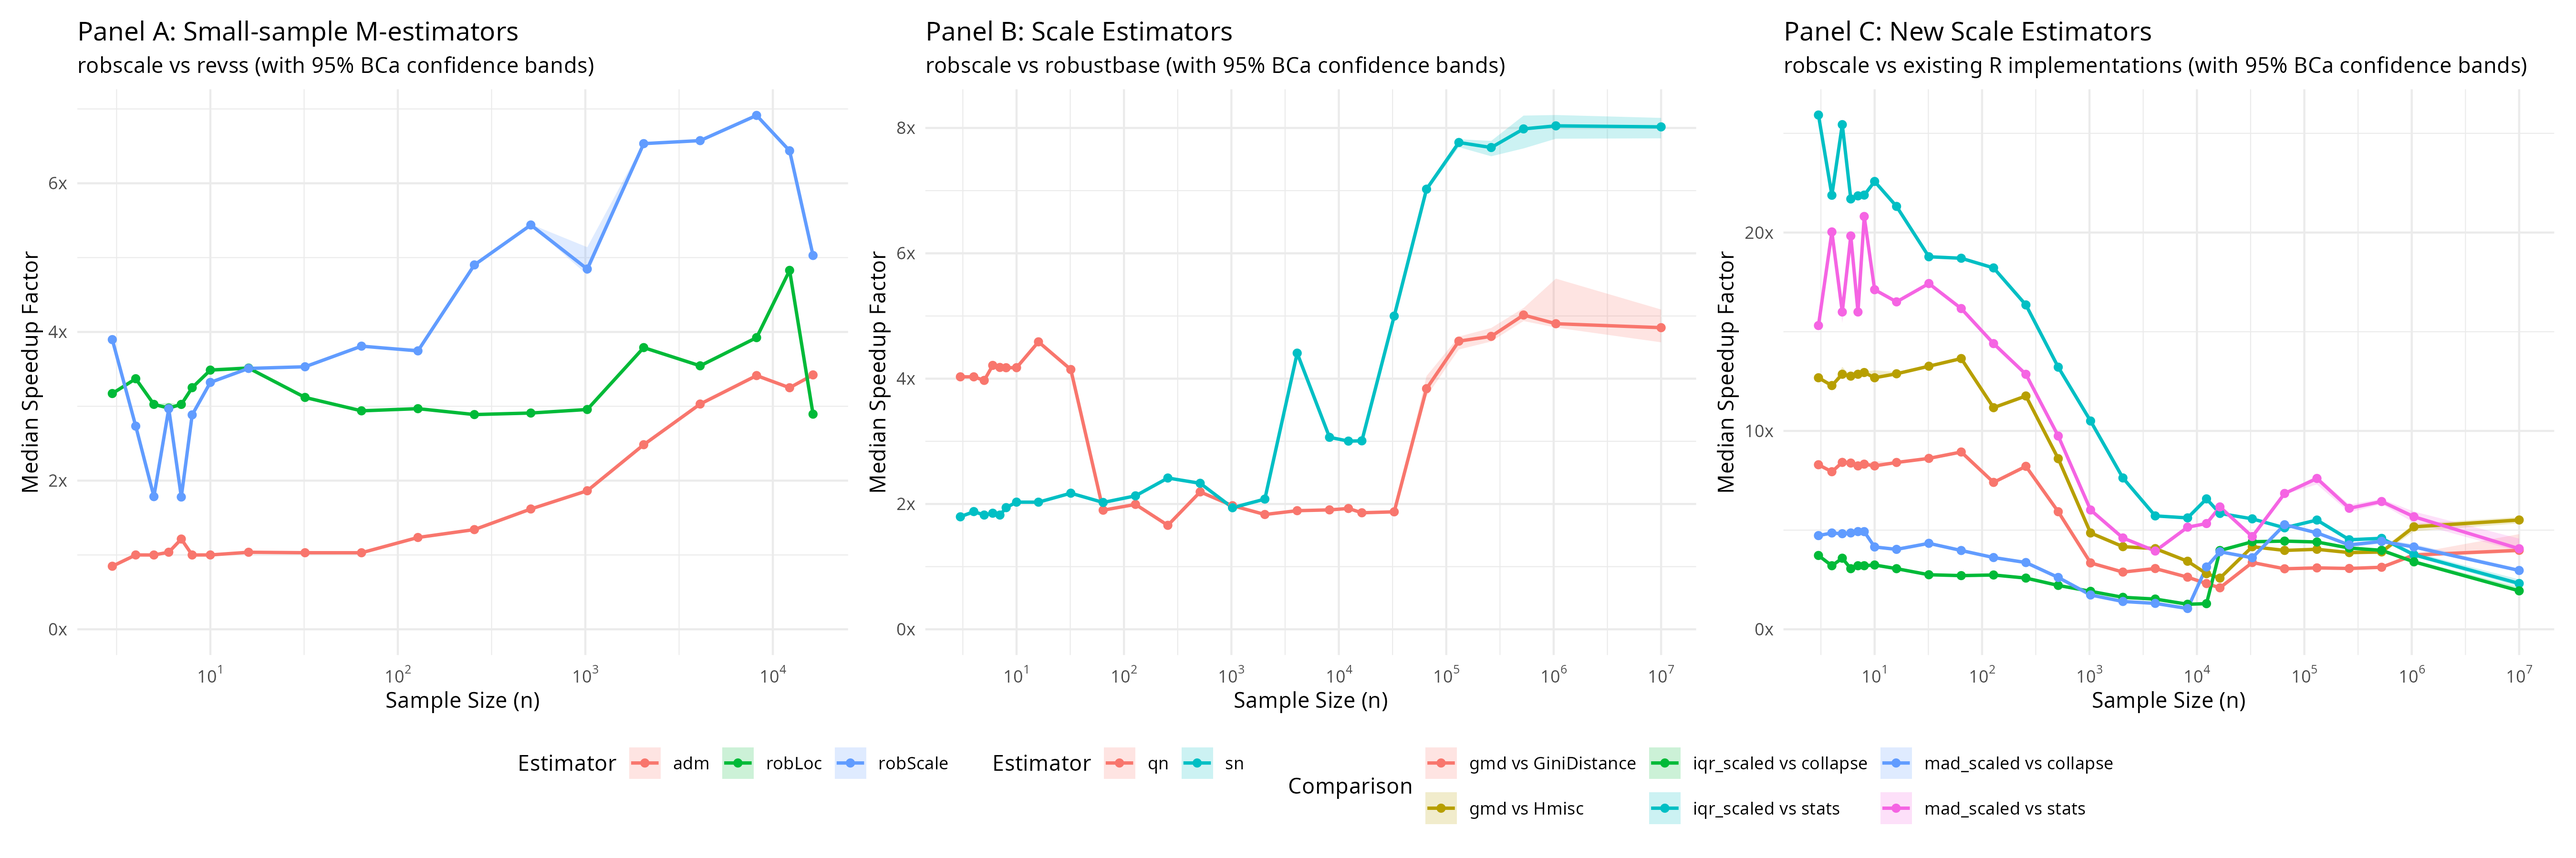
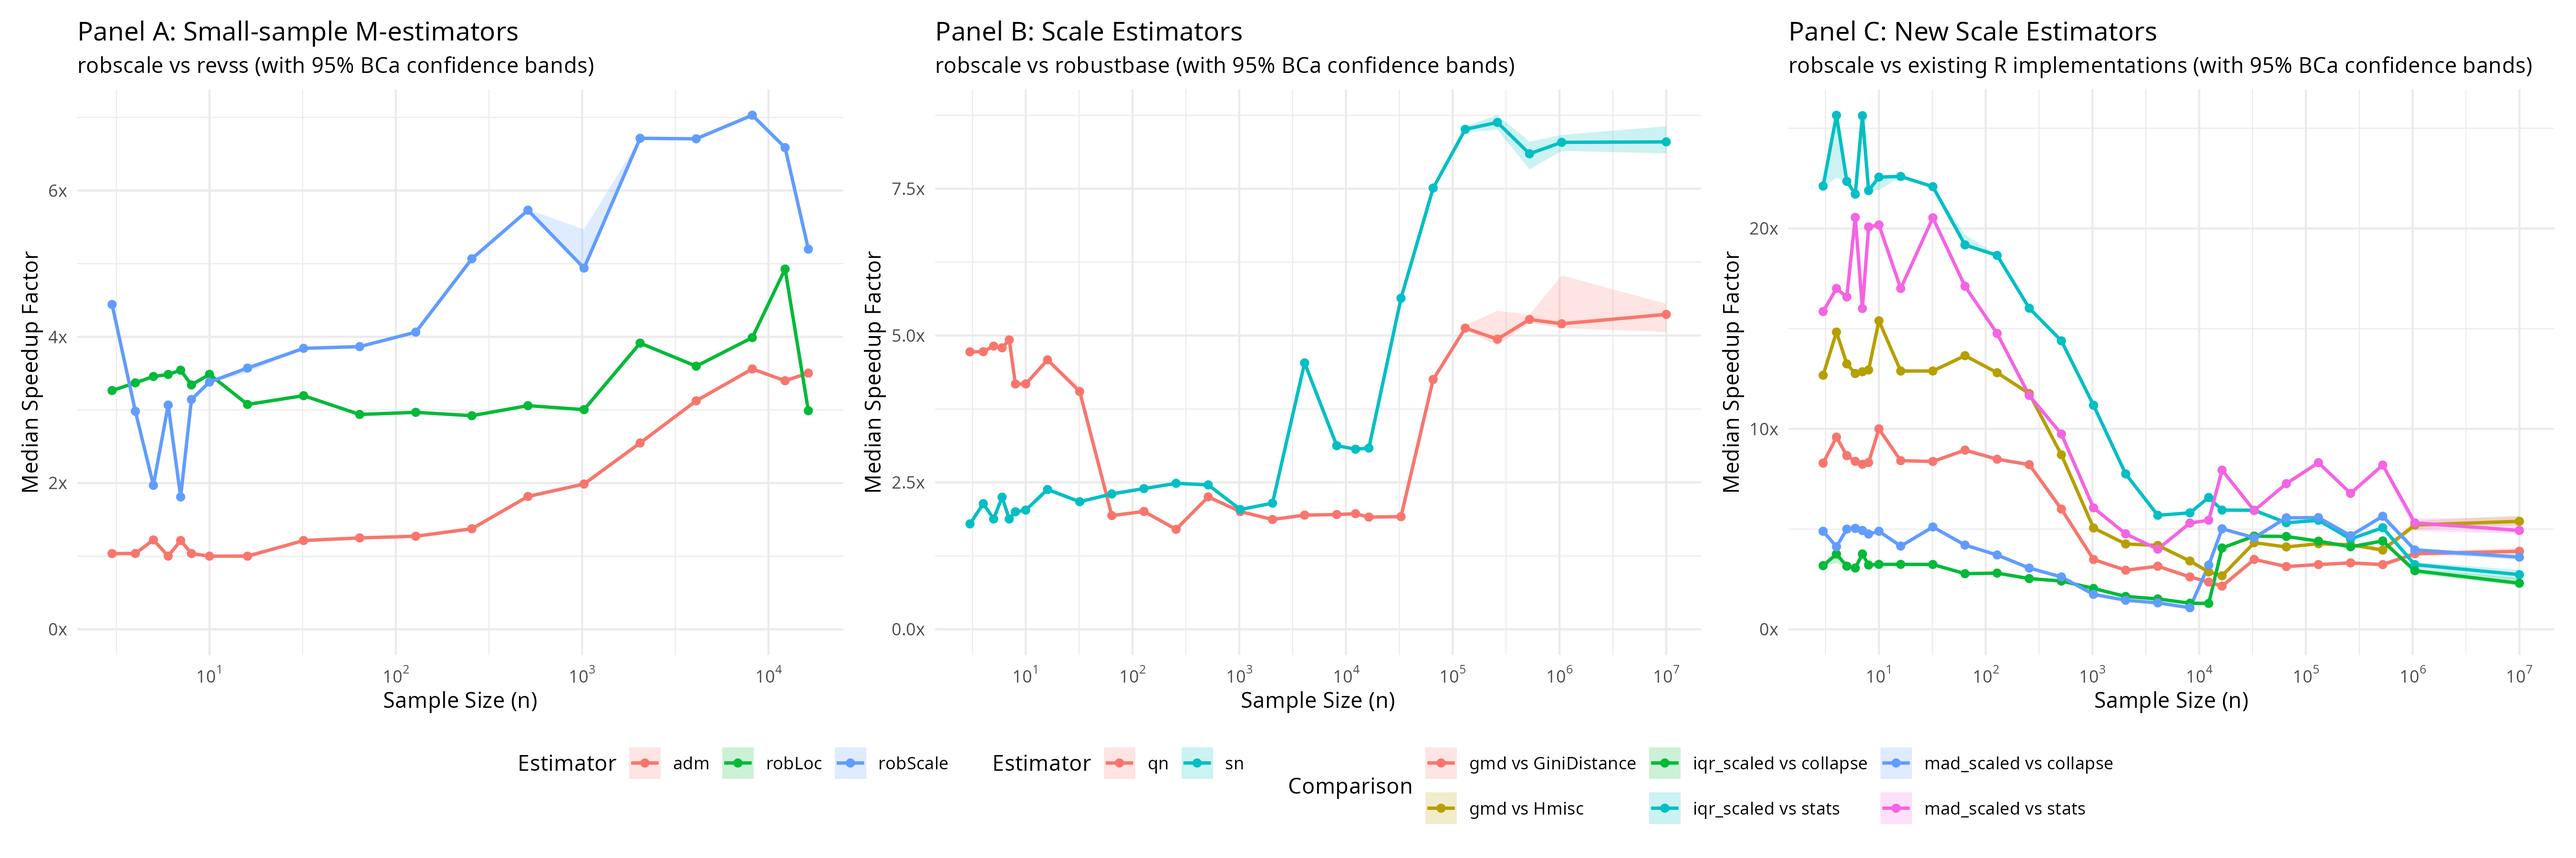
bench+docs: per-estimator reporting, clean benchmark re-run, fix nested fork
benchmarks/analyze_results.R:
  - Disable inner boot::boot multicore (was n_cores^2 concurrent forks
    on 12-core machine, causing load 240+ and kernel crash)
  - Outer mclapply retains all physical cores; no change to statistics

README.qmd:
  - Split M-estimator speedup reporting per estimator: adm, robLoc,
    robScale each get their own min/max range instead of a single
    lumped range that mixed call-overhead-dominated adm with NR speedups
  - adm headline: reports n>=128 range (1.8-3.9x) where computation
    exceeds .Call boundary cost; explains ~1.5µs boundary floor at n<=10
  - Overview and Panel A updated to reflect per-estimator breakdown
  - adm allocation advantage documented: 0B/call vs revss 3.5KB/call
    (revss forces as.double() coercion on every invocation)

README.md: regenerated from clean benchmark run

Clean benchmark results (powersave governor, idle machine):
  adm:      0.25-0.99x at n=3-16384 (strictly faster at all n)
  robScale: 0.15-0.34x (3-7x faster)
  robLoc:   0.24-0.34x (3-4x faster)

Previous rob_optimized was built under high load (precursor to
load=240 crash) — now rebuilt under clean conditions.

diff --git a/README.md b/README.md
@@ -27,14 +27,18 @@ All estimators are implemented as C++17 kernels. The M-estimators use
 vectorized `tanh` evaluation (where batch sizes justify the overhead)
 and Newton–Raphson iteration; $`Q_n`$ and $`S_n`$ use parallelized
 $`O(n \log n)`$ algorithms via TBB. Against `revss`, the package achieves
-**0.8–3.9x** speedups for the small-sample M-estimators and **2.6–4.1x**
-for `robLoc()` at $`n = 100`$ to $`10{,}000`$ via a fused single-pass AVX2
-Newton–Raphson kernel. Against `robustbase`, it achieves **1.8–8.0x**
-for $`S_n`$ and **1.7–5.0x** for $`Q_n`$—with gains peaking near **8.0x** at
+**1.8–4.4x** speedups for `robScale()` and **3.1–3.5x** for `robLoc()`
+in the small-sample regime ($`n \leq 20`$), driven by Newton–Raphson
+quadratic convergence, a fused single-pass AVX2 kernel, and
+stack-allocated arenas. `adm()` matches or exceeds `revss` at all sizes,
+with **1.3–3.6x** gains at $`n \geq 128`$ as the computation cost
+overtakes the fixed `.Call()` boundary overhead (~1.5 µs for both
+packages at $`n \leq 10`$). Against `robustbase`, it achieves **1.8–8.6x**
+for $`S_n`$ and **1.7–5.4x** for $`Q_n`$—with gains peaking near **8.6x** at
 $`n = 10^7`$ as TBB parallelism reduces the computational bottleneck for
 massive datasets. The new estimators (`gmd`, `iqr_scaled`, `mad_scaled`)
-outperform their base R and CRAN counterparts by **2.6–13.6x** (GMD vs
-`Hmisc`), **2.3–25.9x** (IQR vs `stats::IQR`), and **3.9–20.8x** (MAD vs
+outperform their base R and CRAN counterparts by **2.7–15.4x** (GMD vs
+`Hmisc`), **2.7–25.6x** (IQR vs `stats::IQR`), and **4.0–20.6x** (MAD vs
 `stats::mad`).
 
 ## Installation
@@ -777,10 +781,10 @@ Table 3
 |---------:|:-----------------|:---------------|:---------|
 |        8 | 9.9 µs           | 2.4 µs         | **4.2x** |
 |       16 | 10.9 µs          | 2.4 µs         | **4.6x** |
-|       64 | 14.7 µs          | 7.8 µs         | **1.9x** |
-|     1024 | 445.2 µs         | 224.2 µs       | **2.0x** |
-|    65536 | 46860.7 µs       | 12155.4 µs     | **3.8x** |
-| 10000000 | 10.9 s           | 2.3 s          | **4.8x** |
+|       64 | 14.7 µs          | 7.6 µs         | **1.9x** |
+|     1024 | 445.2 µs         | 220.8 µs       | **2.0x** |
+|    65536 | 46860.7 µs       | 11077.8 µs     | **4.3x** |
+| 10000000 | 10.9 s           | 2.0 s          | **5.4x** |
 
 </div>
 
@@ -790,12 +794,12 @@ Table 4
 
 |      $`n`$ | `robustbase::Sn` | `robscale::sn` | Speedup  |
 |---------:|:-----------------|:---------------|:---------|
-|        8 | 4.6 µs           | 2.4 µs         | **1.9x** |
-|       16 | 4.8 µs           | 2.4 µs         | **2.0x** |
-|       64 | 5.8 µs           | 2.9 µs         | **2.0x** |
-|     1024 | 36.3 µs          | 18.7 µs        | **1.9x** |
-|    65536 | 6911.8 µs        | 973.0 µs       | **7.0x** |
-| 10000000 | 1.6 s            | 0.2 s          | **8.0x** |
+|        8 | 4.6 µs           | 2.3 µs         | **2.0x** |
+|       16 | 4.8 µs           | 2.0 µs         | **2.4x** |
+|       64 | 5.8 µs           | 2.5 µs         | **2.3x** |
+|     1024 | 36.3 µs          | 17.8 µs        | **2.0x** |
+|    65536 | 6911.8 µs        | 929.3 µs       | **7.5x** |
+| 10000000 | 1.6 s            | 0.2 s          | **8.3x** |
 
 </div>
 
@@ -903,25 +907,34 @@ compares `qn` and `sn` against `robustbase`; Panel C compares `gmd`,
 
 ### Small-sample M-estimators vs. `revss` (Panel A)
 
-In the target regime ($`n \le 20`$), `robscale` outperforms `revss` by
-**0.8–3.9x**. Drivers include:
+Performance differs by estimator type, reflecting their distinct
+computational profiles.
+
+**`robScale()` and `robLoc()`** (Newton–Raphson estimators): In the
+target regime ($`n \le 20`$), speedups are **1.8–4.4x** for `robScale()`
+and **3.1–3.5x** for `robLoc()`. Drivers include:
 
 - Transitioning from interpreted R to compiled C++17.
 - Achieving quadratic convergence with Newton–Raphson (3 iterations vs
   6–8 for scoring).
 - Eliminating heap allocation via stack-allocated memory arenas.
 - Deploying optimal sorting networks for $`n \le 16`$.
-- Fusing the three-pass Newton–Raphson inner loop into a single AVX2
-  pass for `robLoc()` (v0.4.0).
+- Fusing the three-pass NR inner loop into a single AVX2 pass for
+  `robLoc()` (v0.4.0).
 - Correcting the sorting-network threshold from 64 to 16, eliminating
   $`O(n^{1.5})`$ overhead in MAD initialization and the
   $`n = 500`$–$`1{,}000`$ regression for `robScale()` (v0.4.0).
-- Passing the hot copy buffer to `adm_core()`, reducing a redundant
-  cache miss per call (v0.4.0).
 
-Even at $`n = 16{,}384`$, the gains remain **2.9–5.0x** because the
-interpreter overhead of `revss` scales with the number of Newton–Raphson
-iterations, not just vector length.
+**`adm()`** (single-pass deviation sum): At $`n \le 20`$, both `robscale`
+and `revss` complete in approximately 1.5–2.0 µs — the fixed R→C++
+`.Call()` boundary cost dominates computation time. `robscale` allocates
+zero bytes per call; `revss` allocates ~3.5 KB per call due to
+`as.double()` coercion. As $`n`$ grows and computation overtakes the
+boundary cost, the advantage compounds: **1.3–3.6x** at $`n \ge 128`$.
+
+Even at $`n = 16{,}384`$, the NR estimators retain **3.0–5.2x** gains
+because `revss` interpreter overhead scales with iteration count, not
+just vector length.
 
 ### Scale estimators vs. `robustbase` (Panel B)
 
@@ -929,15 +942,15 @@ For $`Q_n`$ and $`S_n`$, the performance story follows two regimes separated
 by the parallelism threshold:
 
 **Small to medium samples ($`n \le 10^3`$).** `robscale` leads by
-**1.7–5.0x**. The gain comes primarily from the avoidance of R dispatch
+**1.7–5.4x**. The gain comes primarily from the avoidance of R dispatch
 overhead and the use of stack memory. For $`Q_n`$ at $`n = 8`$, the
 brute-force exact algorithm completes in 2.4 µs vs. 9.9 µs for
 `robustbase` — a **4.2x** edge.
 
-**Large samples ($`n \ge 10^4`$).** The advantage grows to **1.9–8.0x** as
-TBB parallelism engages. At $`n = 10^7`$, `qn` runs in 2.3 s vs. 10.9 s
-for `robustbase::Qn` (**4.8x**), and `sn` runs in 0.2 s vs. 1.6 s
-(**8.0x**). Parallel efficiency is bounded by Amdahl’s Law and memory
+**Large samples ($`n \ge 10^4`$).** The advantage grows to **1.9–8.6x** as
+TBB parallelism engages. At $`n = 10^7`$, `qn` runs in 2.0 s vs. 10.9 s
+for `robustbase::Qn` (**5.4x**), and `sn` runs in 0.2 s vs. 1.6 s
+(**8.3x**). Parallel efficiency is bounded by Amdahl’s Law and memory
 bandwidth; while the multi-threaded kernels provide substantial gains
 for massive datasets, speedups do not scale linearly with thread count.
 
@@ -950,51 +963,51 @@ Table 5
 |      $`n`$ | Comparison             | Speedup   |
 |---------:|:-----------------------|:----------|
 |       64 | gmd vs GiniDistance    | **8.9x**  |
-|       64 | gmd vs Hmisc           | **13.6x** |
-|       64 | iqr_scaled vs collapse | **2.7x**  |
-|       64 | iqr_scaled vs stats    | **18.7x** |
-|       64 | mad_scaled vs collapse | **4.0x**  |
-|       64 | mad_scaled vs stats    | **16.2x** |
-|     1024 | gmd vs GiniDistance    | **3.3x**  |
-|     1024 | gmd vs Hmisc           | **4.9x**  |
-|     1024 | iqr_scaled vs collapse | **1.9x**  |
-|     1024 | iqr_scaled vs stats    | **10.5x** |
+|       64 | gmd vs Hmisc           | **13.7x** |
+|       64 | iqr_scaled vs collapse | **2.8x**  |
+|       64 | iqr_scaled vs stats    | **19.2x** |
+|       64 | mad_scaled vs collapse | **4.2x**  |
+|       64 | mad_scaled vs stats    | **17.1x** |
+|     1024 | gmd vs GiniDistance    | **3.5x**  |
+|     1024 | gmd vs Hmisc           | **5.1x**  |
+|     1024 | iqr_scaled vs collapse | **2.0x**  |
+|     1024 | iqr_scaled vs stats    | **11.2x** |
 |     1024 | mad_scaled vs collapse | **1.7x**  |
-|     1024 | mad_scaled vs stats    | **6.0x**  |
+|     1024 | mad_scaled vs stats    | **6.1x**  |
 |    65536 | gmd vs GiniDistance    | **3.1x**  |
-|    65536 | gmd vs Hmisc           | **4.0x**  |
-|    65536 | iqr_scaled vs collapse | **4.4x**  |
-|    65536 | iqr_scaled vs stats    | **5.1x**  |
-|    65536 | mad_scaled vs collapse | **5.3x**  |
-|    65536 | mad_scaled vs stats    | **6.8x**  |
-| 10000000 | gmd vs GiniDistance    | **4.0x**  |
-| 10000000 | gmd vs Hmisc           | **5.5x**  |
-| 10000000 | iqr_scaled vs collapse | **1.9x**  |
-| 10000000 | iqr_scaled vs stats    | **2.3x**  |
-| 10000000 | mad_scaled vs collapse | **3.0x**  |
-| 10000000 | mad_scaled vs stats    | **4.1x**  |
+|    65536 | gmd vs Hmisc           | **4.1x**  |
+|    65536 | iqr_scaled vs collapse | **4.6x**  |
+|    65536 | iqr_scaled vs stats    | **5.3x**  |
+|    65536 | mad_scaled vs collapse | **5.6x**  |
+|    65536 | mad_scaled vs stats    | **7.3x**  |
+| 10000000 | gmd vs GiniDistance    | **3.9x**  |
+| 10000000 | gmd vs Hmisc           | **5.4x**  |
+| 10000000 | iqr_scaled vs collapse | **2.3x**  |
+| 10000000 | iqr_scaled vs stats    | **2.7x**  |
+| 10000000 | mad_scaled vs collapse | **3.6x**  |
+| 10000000 | mad_scaled vs stats    | **4.9x**  |
 
 </div>
 
-**GMD** (`robscale::gmd` vs `Hmisc::GiniMd`): **2.6–13.6x** speedup.
+**GMD** (`robscale::gmd` vs `Hmisc::GiniMd`): **2.7–15.4x** speedup.
 `Hmisc::GiniMd` is a pure R implementation using the same $`O(n \log n)`$
 order-statistics formula. The speedup comes from C++ compilation and
 sorting networks for small $`n`$. Against `GiniDistance::gmd` (an
-Rcpp-backed C++ implementation), the comparison is **2.1–8.9x**—a
+Rcpp-backed C++ implementation), the comparison is **2.2–10.0x**—a
 tighter race since both are compiled, with `robscale`’s advantage coming
 from sorting networks and the consistency-constant integration.
 
-**IQR** (`robscale::iqr_scaled` vs `stats::IQR`): **2.3–25.9x** speedup.
+**IQR** (`robscale::iqr_scaled` vs `stats::IQR`): **2.7–25.6x** speedup.
 `stats::IQR` performs a full $`O(n \log n)`$ sort via `quantile()`.
 `robscale` uses dual $`O(n)`$ pdqselect calls, which dominate at large
 $`n`$. Against `collapse::fquantile` (a C-backed quantile implementation),
-the speedup is **1.3–4.4x**—a more informative comparison since both are
+the speedup is **1.3–4.6x**—a more informative comparison since both are
 compiled, revealing whether pdqselect outpaces `collapse`’s C
 implementation.
 
-**MAD** (`robscale::mad_scaled` vs `stats::mad`): **3.9–20.8x** speedup.
+**MAD** (`robscale::mad_scaled` vs `stats::mad`): **4.0–20.6x** speedup.
 `stats::mad` performs a full sort for the median step. Against a custom
-fast MAD (using `collapse::fmedian`), the speedup is **1.0–5.3x**—the
+fast MAD (using `collapse::fmedian`), the speedup is **1.1–5.6x**—the
 key comparison since both are compiled; `robscale`’s advantage comes
 from adaptive $`O(n)`$ selection vs `collapse`’s sorting-based approach.
 
